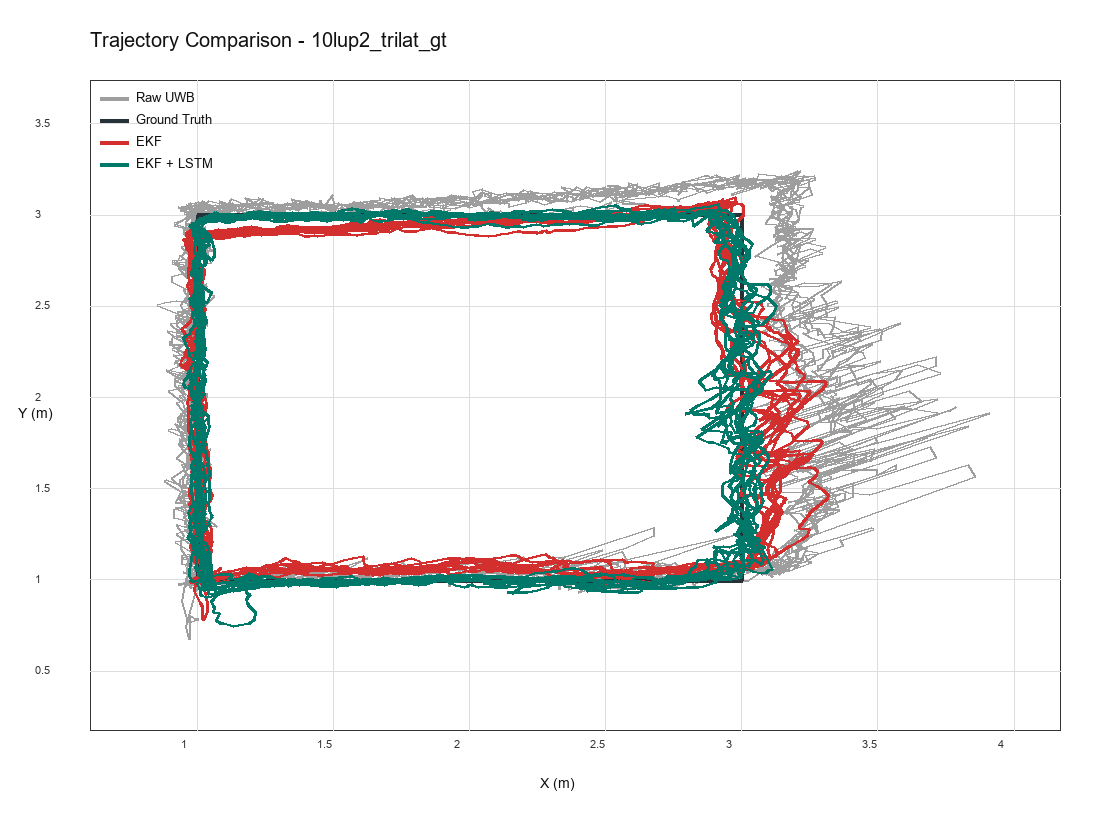
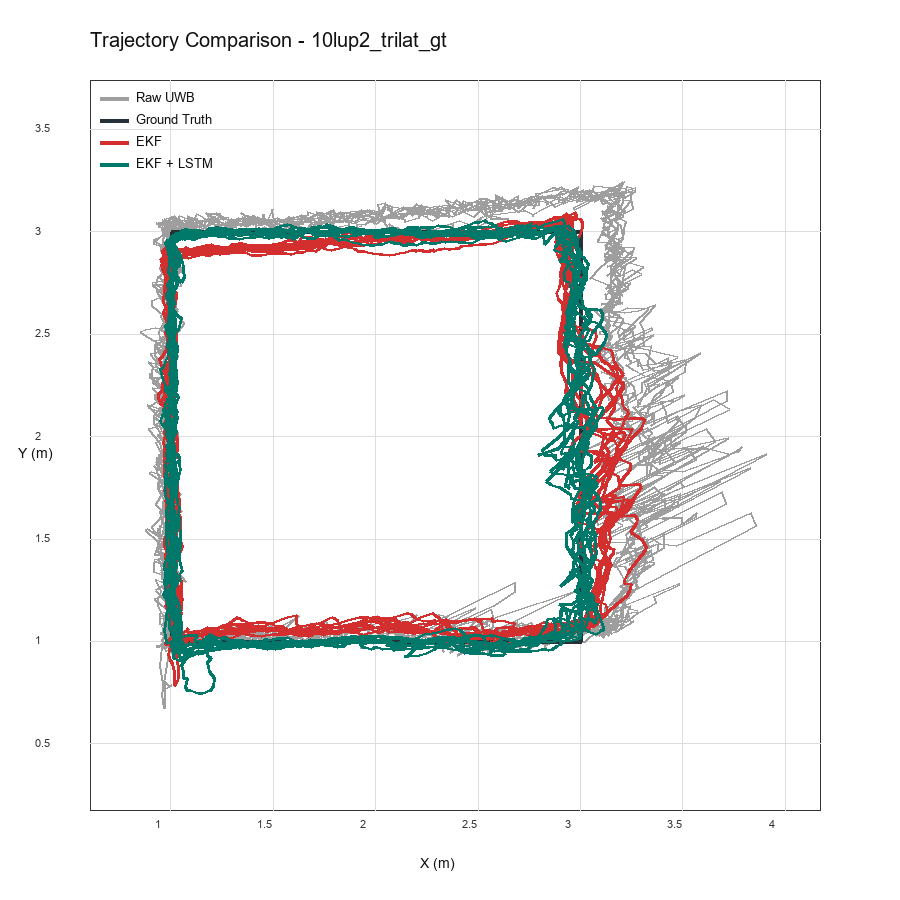
docs: make trajectory plot area square

diff --git a/src/uwb_localization/plotting.py b/src/uwb_localization/plotting.py
@@ -104,10 +104,14 @@ def _bounds(series: list[tuple[np.ndarray, np.ndarray]], equal_axis: bool) -> tu
     return x_min, x_max, y_min, y_max
 
 
-def _canvas(width: int = 1100, height: int = 820) -> tuple[Image.Image, ImageDraw.ImageDraw, dict[str, int]]:
+def _canvas(width: int = 1100, height: int = 820, square_plot: bool = False) -> tuple[Image.Image, ImageDraw.ImageDraw, dict[str, int]]:
     image = Image.new("RGB", (width, height), "white")
     draw = ImageDraw.Draw(image)
     plot = {"left": 90, "top": 80, "right": width - 40, "bottom": height - 90}
+    if square_plot:
+        side = min(plot["right"] - plot["left"], plot["bottom"] - plot["top"])
+        plot["right"] = plot["left"] + side
+        plot["bottom"] = plot["top"] + side
     return image, draw, plot
 
 
@@ -225,7 +229,7 @@ def plot_trajectory(
 
     line_data = [(label, *_finite_line(part, x_col, y_col), color, width) for label, x_col, y_col, color, width in series]
     bounds = fixed_bounds or _bounds([(x, y) for _, x, y, _, _ in line_data], equal_axis=True)
-    image, draw, plot = _canvas()
+    image, draw, plot = _canvas(width=900, height=900, square_plot=True)
     _draw_axes(draw, plot, title, labels["x"], labels["y"], bounds, tick_step_x=0.5, tick_step_y=0.5)
     for _, x, y, color, width in line_data:
         _draw_line(draw, x, y, bounds, plot, color, width)
